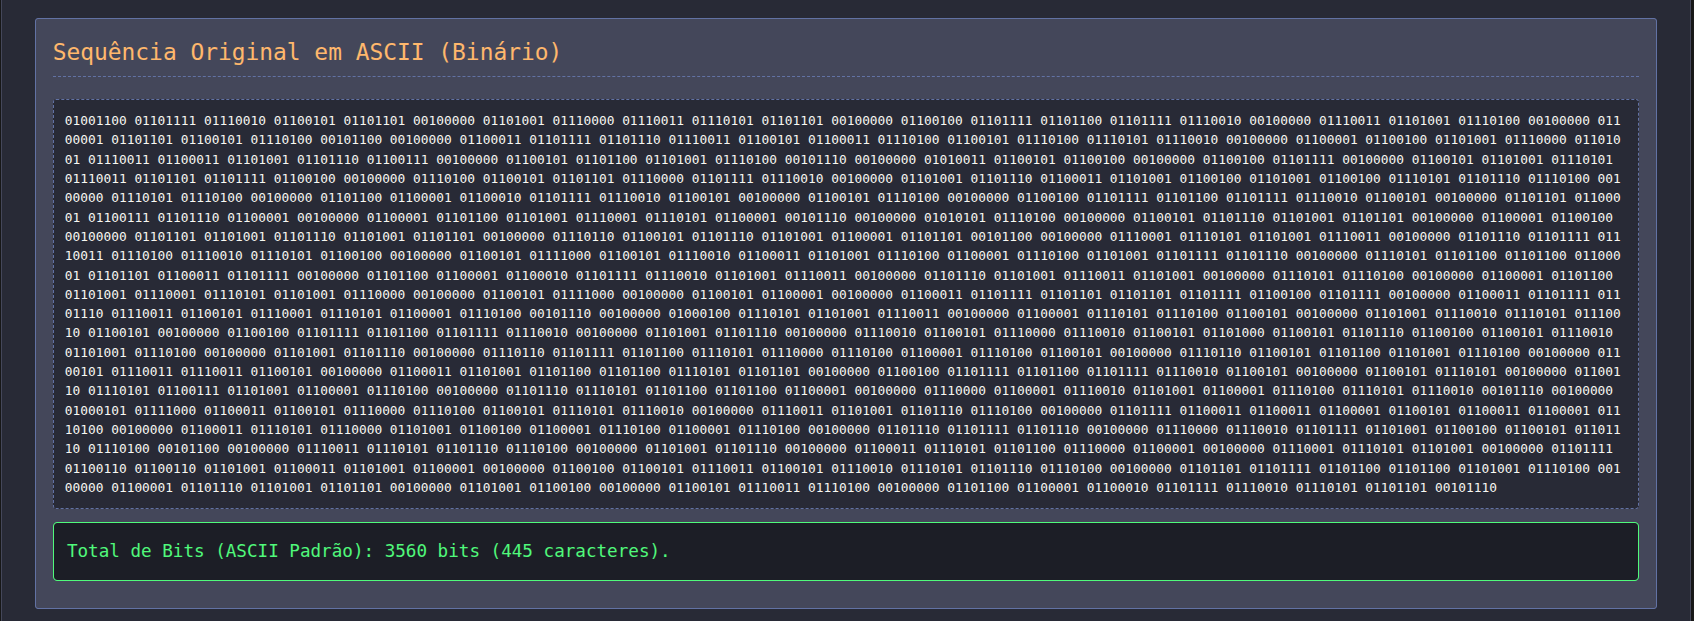
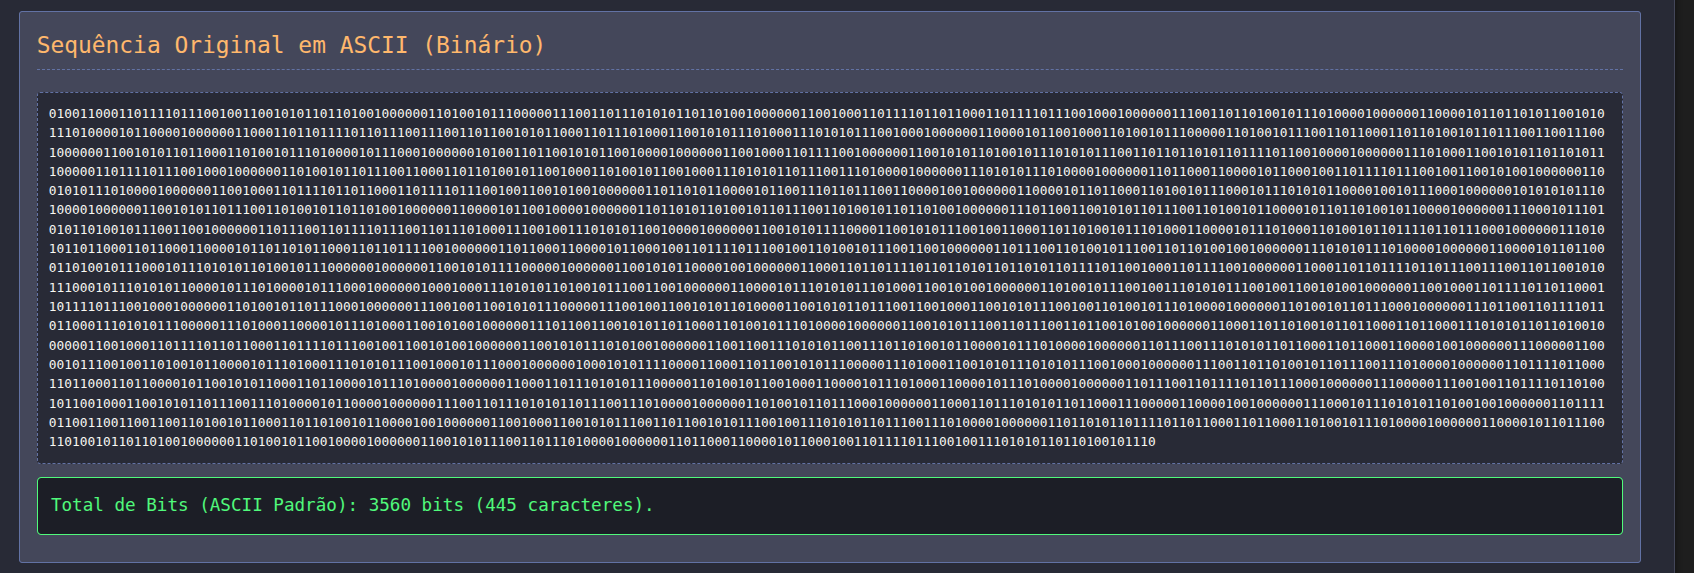
melhora visualização

diff --git a/docs/script.js b/docs/script.js
@@ -90,7 +90,7 @@ const textToAsciiBinary = (text) => {
     for (let i = 0; i < text.length; i++) {
         const charCode = text.charCodeAt(i);
         const binaryChar = charCode.toString(2).padStart(8, '0');
-        binaryString += binaryChar + (i < text.length - 1 ? ' ' : '');
+        binaryString += binaryChar;
     }
     return { binaryString: binaryString, bitCount: text.length * 8 };
 }
